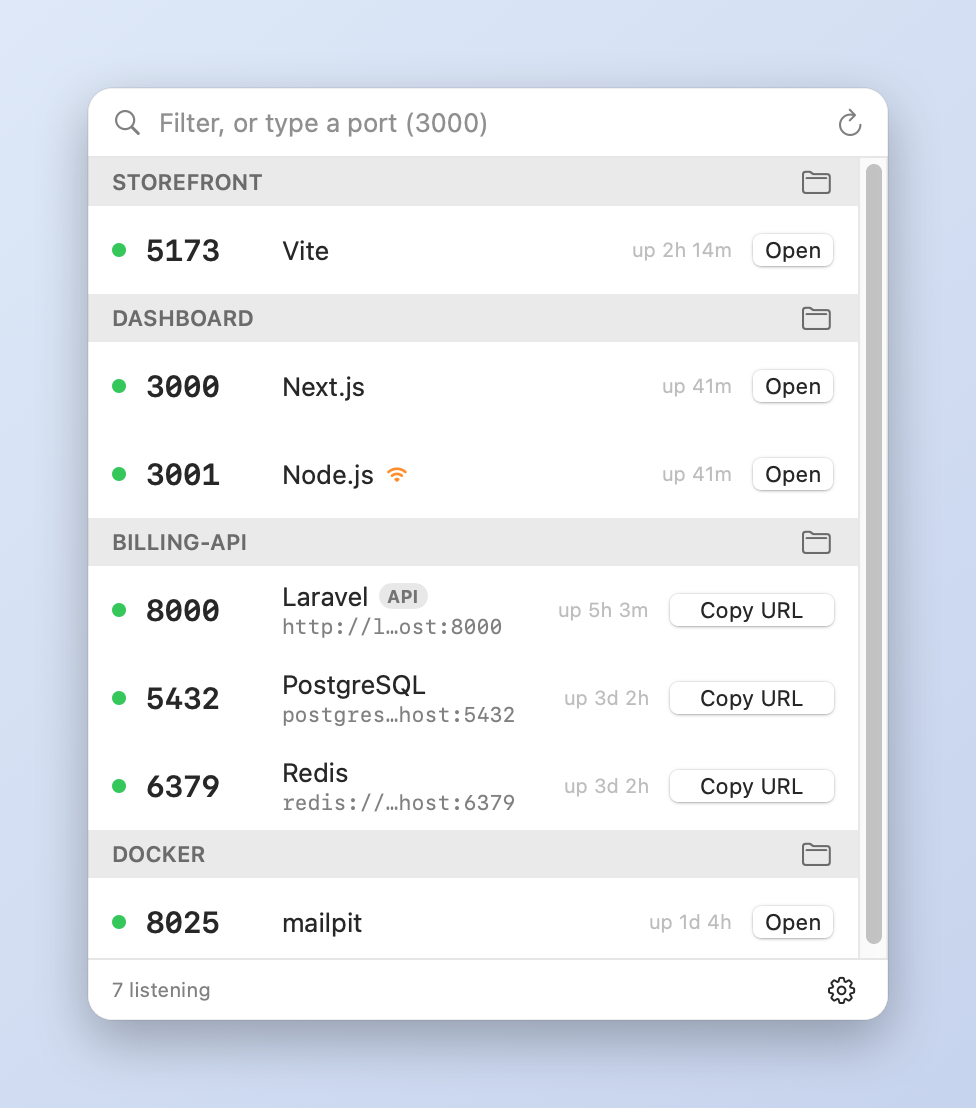
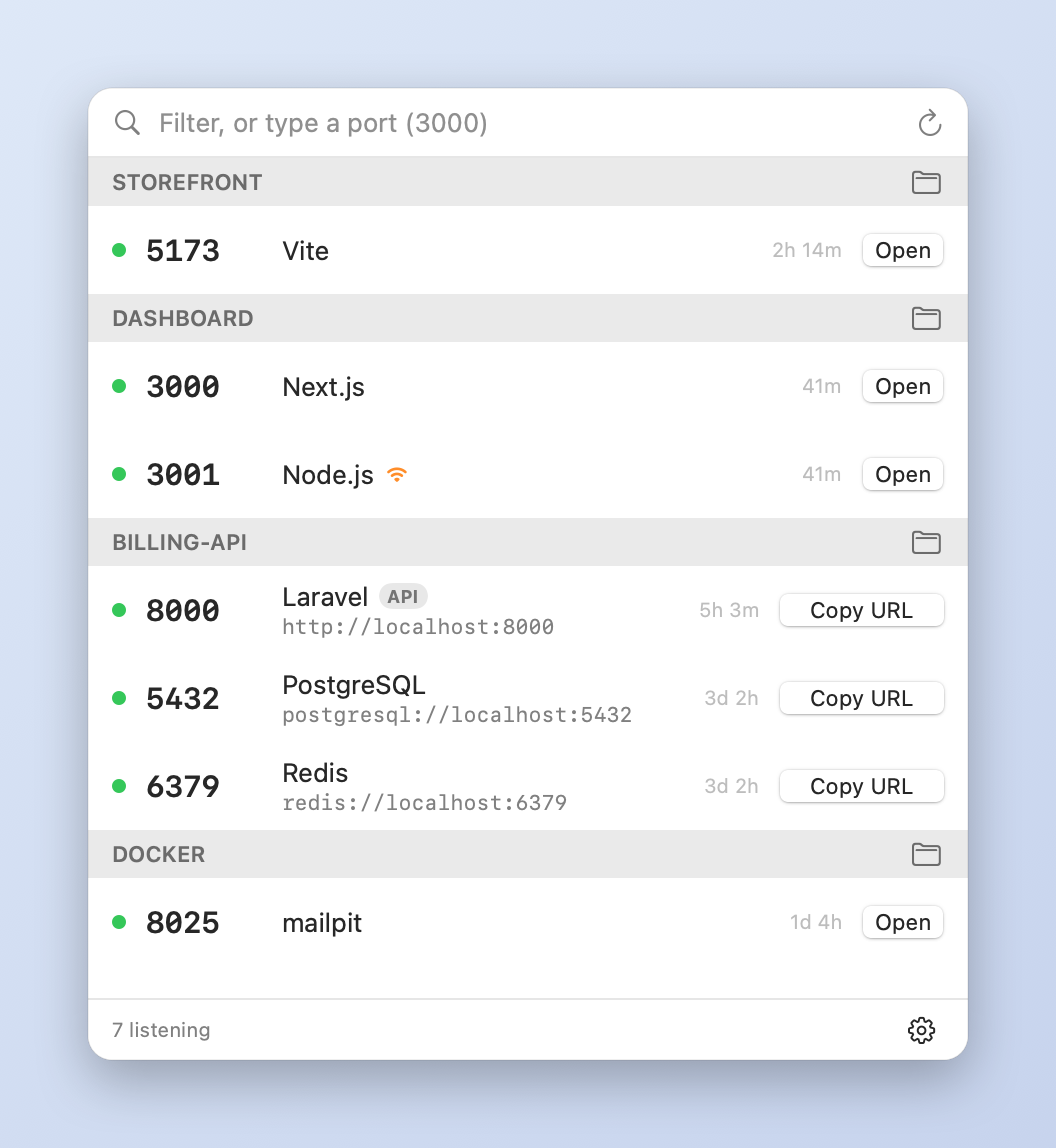
Show full addresses on rows, fix truncation and scrollbar, refresh screenshot

diff --git a/Sources/LocalServer/Views.swift b/Sources/LocalServer/Views.swift
@@ -5,7 +5,7 @@ struct RootView: View {
     @FocusState private var filterFocused: Bool
 
     // Fixed so the popover never changes size while you filter or toggle.
-    private let listHeight: CGFloat = 400
+    private let listHeight: CGFloat = 420
 
     var body: some View {
         VStack(spacing: 0) {
@@ -41,7 +41,7 @@ struct RootView: View {
             Divider()
             footer
         }
-        .frame(width: 400)
+        .frame(width: 440)
         .onReceive(NotificationCenter.default.publisher(for: .popoverDidShow)) { _ in
             store.query = ""
             filterFocused = true
@@ -181,10 +181,11 @@ struct RowView: View {
                 // Show exactly what the button will copy, so there is nothing to guess.
                 if entry.web != .page {
                     Text(entry.address).font(.system(size: 10.5, design: .monospaced)).foregroundStyle(.secondary)
-                        .lineLimit(1).truncationMode(.middle)
+                        .lineLimit(1).fixedSize()
                 }
                 if let t = tunnels.tunnels[entry.port] { TunnelLine(tunnel: t) }
             }
+            .layoutPriority(1)
             Spacer(minLength: 4)
             if let label = busyLabel {
                 Text(label).font(.caption).foregroundStyle(.secondary)
@@ -195,7 +196,7 @@ struct RowView: View {
                 } else if hover {
                     secondaryActions
                 } else if let up = entry.uptime {
-                    Text("up \(up)").font(.caption).foregroundStyle(.tertiary)
+                    Text(up).font(.caption).foregroundStyle(.tertiary).lineLimit(1).fixedSize()
                 }
                 mainButton
             }
